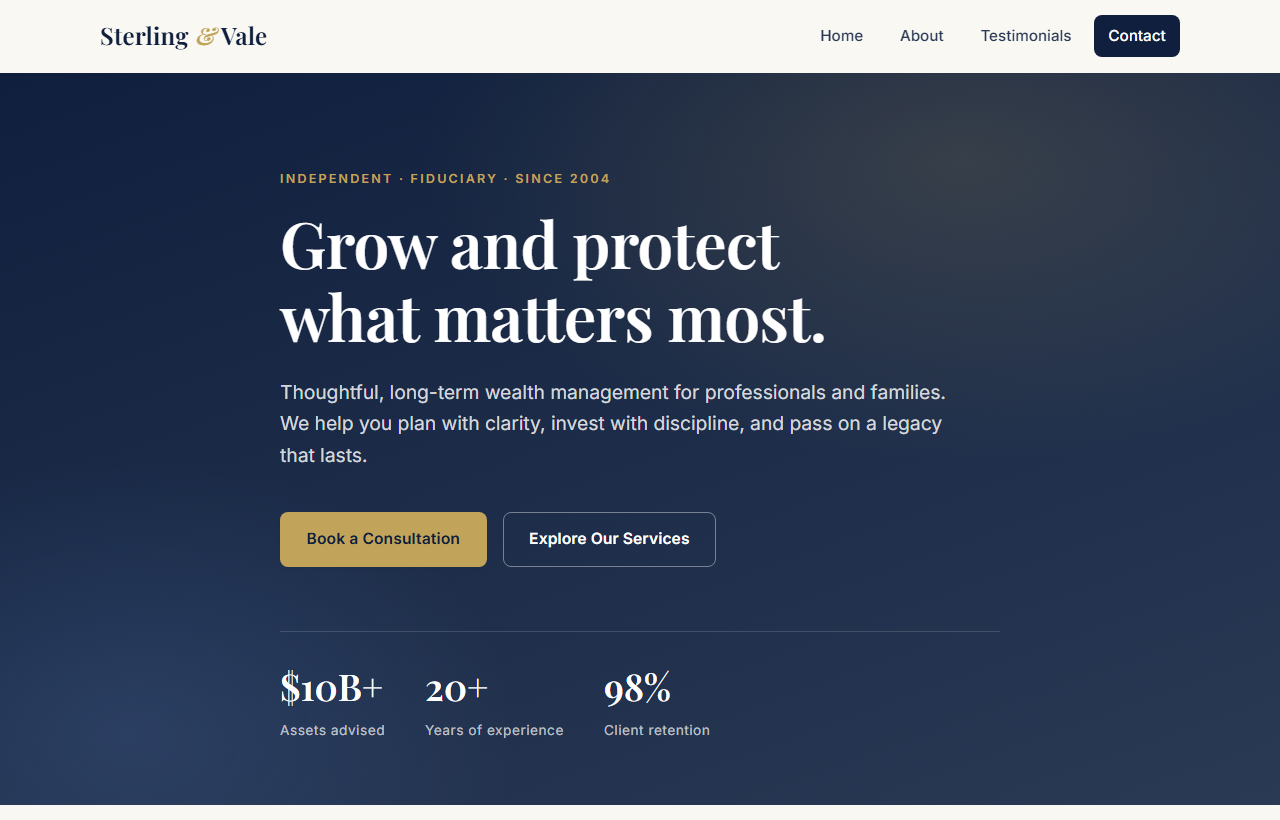
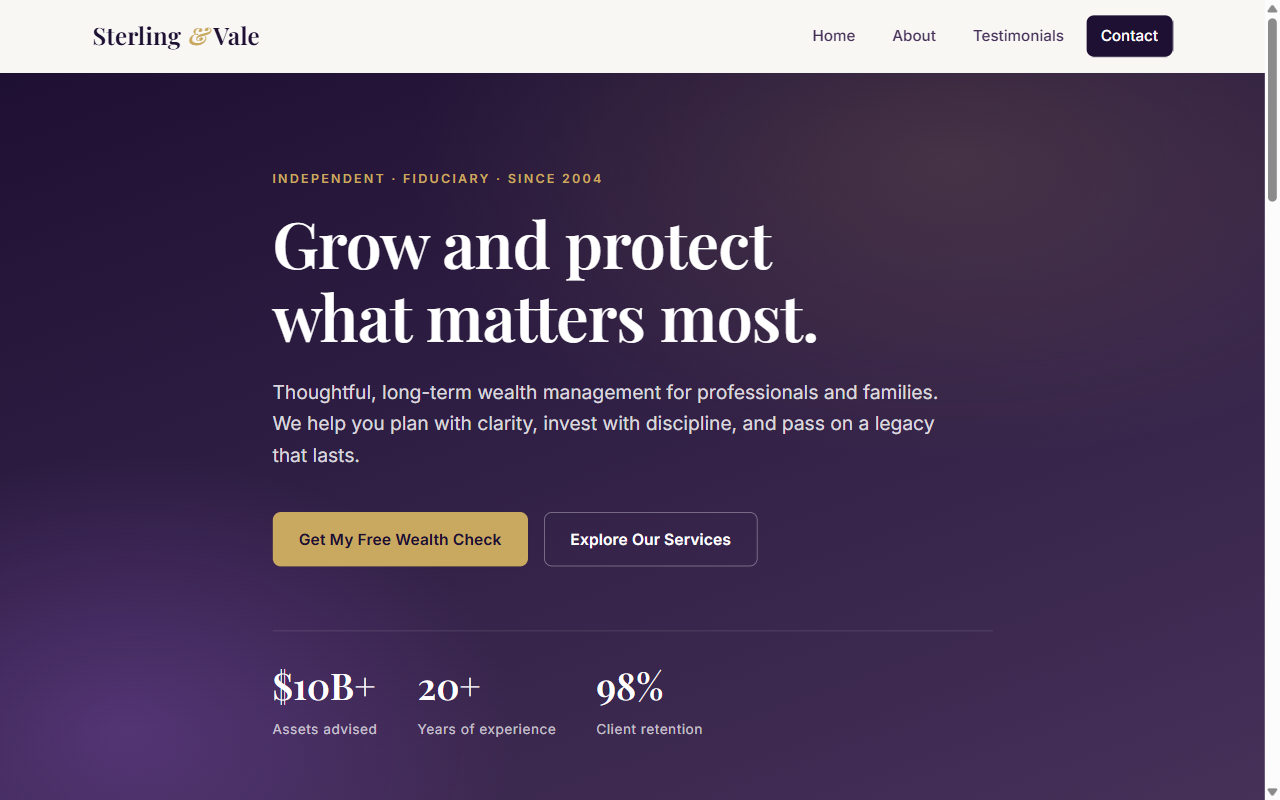
Update README and homepage screenshot for purple lead-magnet redesign

diff --git a/README.md b/README.md
@@ -2,6 +2,8 @@
 
 A polished, responsive one-page investment advisory site built with **vanilla HTML, CSS, and JavaScript** — no frameworks, no build tools. The only external dependency is Google Fonts (Playfair Display + Inter).
 
+Styled in a premium **deep-purple + gold** theme, the page is built around a single conversion: a free, no-obligation **Wealth Health Check** lead-magnet enquiry form that emails submissions to the firm via FormSubmit.
+
 🔗 **Live site:** https://alfredang.github.io/wealthadvisory/
 
 ![Sterling & Vale Advisory homepage](screenshot.png)
@@ -17,7 +19,7 @@ A polished, responsive one-page investment advisory site built with **vanilla HT
 No server or build step is required:
 
 1. Double-click `index.html` (or right-click → Open With → your browser).
-2. Check: sticky nav, smooth-scrolling anchors, hero "Book a Consultation" jumps to the form, the testimonial carousel auto-rotates with working prev/next + dots, and sections fade in on scroll.
+2. Check: sticky nav, smooth-scrolling anchors, hero "Get My Free Wealth Check" jumps to the form, the testimonial carousel auto-rotates with working prev/next + dots, and sections fade in on scroll.
 3. Resize the window to ~375px / ~768px / ~1280px to confirm the hamburger menu, card stacking, and overall responsiveness.
 4. Open DevTools → Console to confirm there are no errors.
 
@@ -54,6 +56,9 @@ Until you click the activation link, submissions will **not** arrive in your inb
 
 ### Spam protection
 A hidden honeypot field (`_honey`) is included and hidden via CSS. Bots that fill it are silently ignored. The form also sends `_captcha: "false"`, `_template: "table"`, and a custom `_subject` to FormSubmit.
+
+## SEO
+The `<head>` includes a canonical URL, Open Graph + Twitter Card tags, a `theme-color`, and `FinancialService` JSON-LD structured data (with the free-review `Offer`) so the page presents well in search results and social shares.
 
 ## Notes
 - Disclaimer in the footer: *"This website is for informational purposes only and does not constitute financial advice."*
